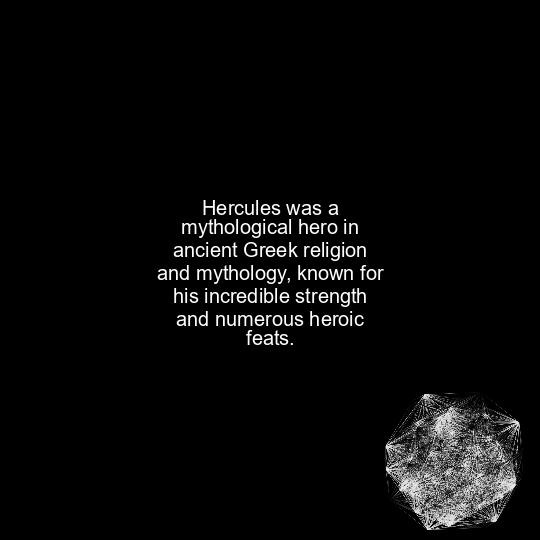
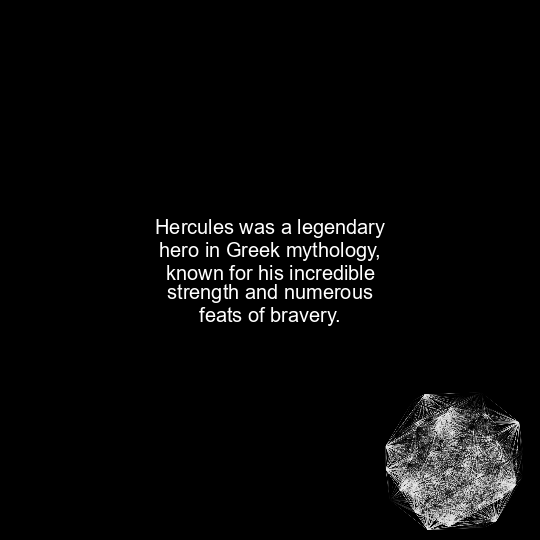
add api file & images

Changed region(s): [[0.2667, 0.3556, 0.7111, 0.6519]]

diff --git a/api.py b/api.py
@@ -1,10 +1,8 @@
-#fimbrethil
-
 import bittensor as bt
 from PIL import Image, ImageDraw, ImageFont, ImageColor
 import textwrap
 
-#from user, input
+#from user input will need to connect this to UI
 input = "Who was Hercules?"
 
 #query bittensor with user input
